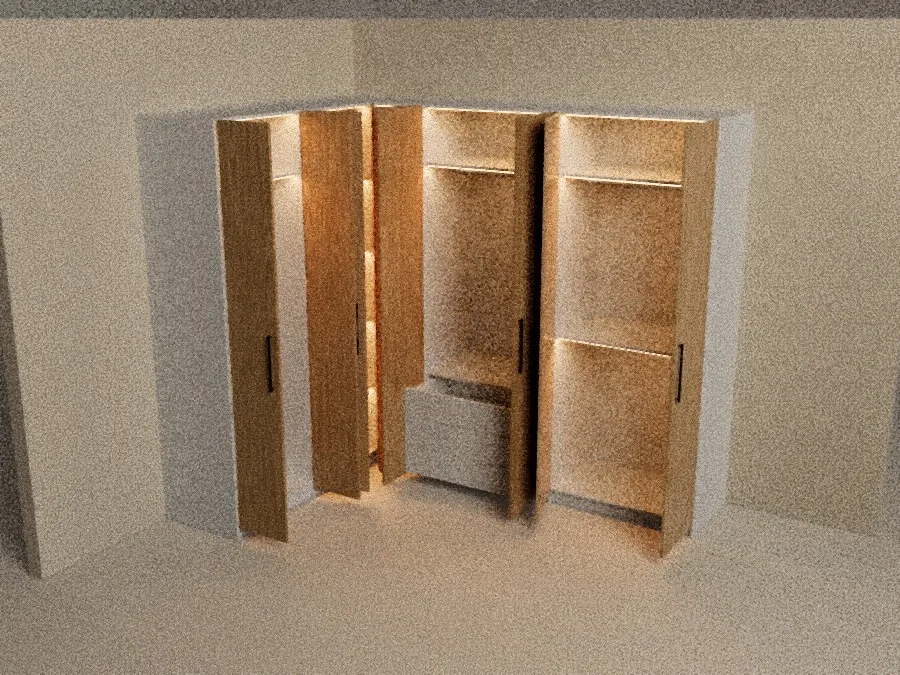
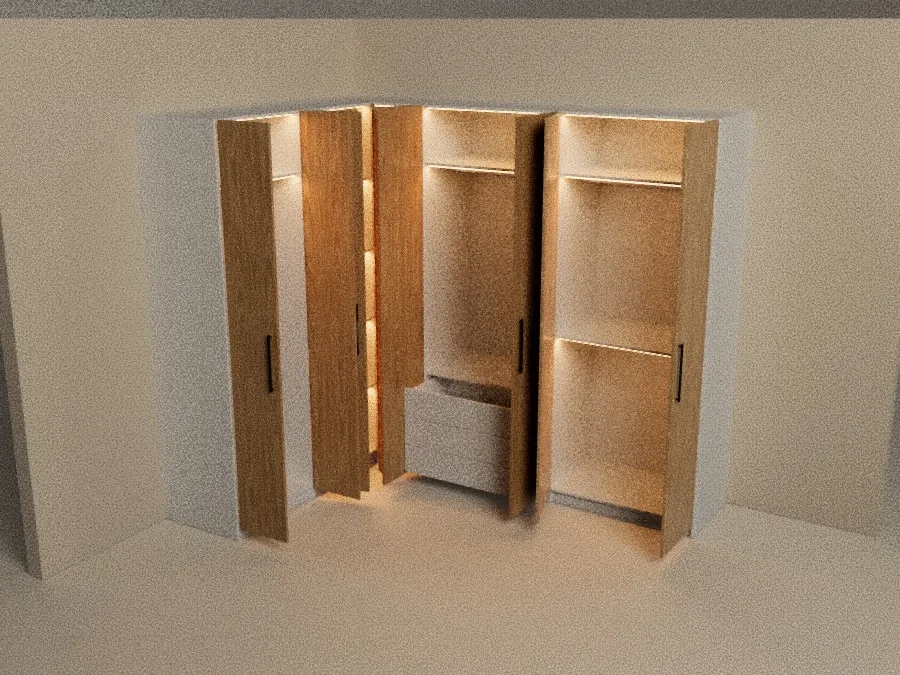
Cama con acolchado que cae por los costados y los pies, y telas sobre una malla pareja
El acolchado dobla sobre el canto del colchón conservando su espesor y
cuelga con pliegues; colchón, acolchado y almohadas llevan lino arrugado.
Las piezas que se deforman (capitoné, arrugas, caída) se arman sobre una
grilla pareja que comparte los bordes entre caras: sin rajaduras y con diez
veces menos triángulos que la subdivisión anterior.

Claude-Session: https://claude.ai/code/session_01WMh8ZnCxr4ewVPfLHSTLEF

Changed region(s): [[0.0, 0.0, 1.0, 1.0]]

diff --git a/src/components/viewer/PartNode.tsx b/src/components/viewer/PartNode.tsx
@@ -5,7 +5,6 @@ import { useEffect, useMemo, useReducer, useRef, useState, type ReactNode } from
 import * as THREE from "three";
 import { RoundedBoxGeometry } from "three/examples/jsm/geometries/RoundedBoxGeometry.js";
 import { mergeGeometries, mergeVertices } from "three/examples/jsm/utils/BufferGeometryUtils.js";
-import { TessellateModifier } from "three/examples/jsm/modifiers/TessellateModifier.js";
 import { GLTFLoader } from "three/examples/jsm/loaders/GLTFLoader.js";
 import { MeshoptDecoder } from "three/examples/jsm/libs/meshopt_decoder.module.js";
 
@@ -245,6 +244,145 @@ function tuftGeometry(g: THREE.BufferGeometry, size: number[], tuft: NonNullable
   g.computeVertexNormals();
 }
 
+/**
+ * Tela arrugada: la superficie se ondula con unos pliegues suaves, largos en
+ * una dirección y cortos en la otra, como un acolchado o una funda; arriba más
+ * que en los costados. Determinístico: el mismo mueble se ve siempre igual.
+ */
+function wrinkleGeometry(g: THREE.BufferGeometry, amplitude: number, seed: number) {
+  const pos = g.getAttribute("position") as THREE.BufferAttribute;
+  const nor = g.getAttribute("normal") as THREE.BufferAttribute;
+  const a = amplitude * MM;
+  const ph = seed * 6.283;
+  for (let i = 0; i < pos.count; i++) {
+    const x = pos.getX(i);
+    const y = pos.getY(i);
+    const z = pos.getZ(i);
+    const f =
+      0.5 * Math.sin(x * 9.3 + z * 2.7 + ph) +
+      0.3 * Math.sin(x * -3.9 + z * 12.1 + 1.3 + ph * 0.7) +
+      0.2 * Math.sin((x + z) * 21 + y * 7 + 0.4 + ph * 1.3) +
+      0.12 * Math.sin(x * 37 - z * 29 + ph * 2.1);
+    // las arrugas se marcan arriba; en lo que cuelga y en el dobladillo, poco
+    const up = Math.max(0.2, nor.getY(i));
+    const k = a * f * up;
+    pos.setXYZ(i, x + nor.getX(i) * k, y + nor.getY(i) * k, z + nor.getZ(i) * k);
+  }
+  pos.needsUpdate = true;
+  g.computeVertexNormals();
+}
+
+/**
+ * La caída de una tela: lo que sobra del ancho y del largo de lo que cubre
+ * dobla sobre el canto (un radio chico) y cuelga, como un acolchado sobre el
+ * colchón. A los costados y adelante; atrás queda contra las almohadas.
+ */
+function drapeGeometry(g: THREE.BufferGeometry, size: number[], drape: NonNullable<Part["drape"]>) {
+  const pos = g.getAttribute("position") as THREE.BufferAttribute;
+  const hw = (drape.w * MM) / 2;
+  const front = -size[2] / 2 + drape.d * MM;
+  const r = 0.045;
+  const arc = (r * Math.PI) / 2;
+  const drop = drape.drop * MM;
+  // un punto que estaba `e` más allá del canto, a `h` del medio del espesor:
+  // dobla alrededor del canto (el espesor se conserva: afuera queda más lejos)
+  // y después cuelga derecho. Devuelve cuánto sale, cuánto baja y el seno y el
+  // coseno del giro, para correr el espesor.
+  const bend = (e: number) => {
+    if (e <= 0) return { out: e, down: 0, s: 0, c: 1 };
+    if (e <= arc) {
+      const t = e / r;
+      return { out: r * Math.sin(t), down: r * (1 - Math.cos(t)), s: Math.sin(t), c: Math.cos(t) };
+    }
+    return { out: r, down: Math.min(drop, r + (e - arc)), s: 1, c: 0 };
+  };
+  // los pliegues verticales de lo que cuelga: dos ondas que no se repiten igual
+  const folds = (u: number) => 0.6 * Math.sin(u * 27 + 0.7) + 0.4 * Math.sin(u * 61 + 2.1);
+  for (let i = 0; i < pos.count; i++) {
+    const x = pos.getX(i);
+    const z = pos.getZ(i);
+    const h = pos.getY(i);
+    const bx = bend(Math.abs(x) - hw);
+    const bz = bend(z - front);
+    const down = Math.min(drop, bx.down + bz.down);
+    // cuánto cuelga ya (0 arriba, 1 al fondo): ahí los pliegues se marcan
+    const hx = Math.min(1, bx.down / 0.12);
+    const hz = Math.min(1, bz.down / 0.12);
+    const wave = 0.011;
+    const nx = Math.abs(x) > hw ? Math.sign(x) * (hw + bx.out + h * bx.s + wave * hx * folds(z)) : x;
+    const nz = z > front ? front + bz.out + h * bz.s + wave * hz * folds(x + 3.1) : z;
+    pos.setXYZ(i, nx, -down + h * bx.c * bz.c, nz);
+  }
+  pos.needsUpdate = true;
+  g.computeVertexNormals();
+}
+
+/**
+ * Una caja redondeada hecha de una malla pareja, para poder deformarla (el
+ * capitoné, las arrugas, la caída de una tela). Cada cara es una grilla de
+ * lado `cell` como mucho, más puntos de sobra cerca de los cantos para que el
+ * redondeo salga liso; las caras comparten exactamente los vértices de sus
+ * bordes, así que al soldarlas no quedan rajaduras.
+ */
+function gridRoundedBox(size: number[], radius: number, cell: number): THREE.BufferGeometry {
+  const r = Math.min(radius, ...size.map((v) => v / 2 - 1e-5));
+  const stops = (len: number) => {
+    const h = len / 2;
+    const inner = h - r;
+    const out: number[] = [];
+    // cerca de cada punta, puntos que caen parejos en el cuarto de círculo
+    for (let k = 0; k < 4; k++) out.push(-h + r * (1 - Math.tan((Math.PI / 4) * (1 - k / 4))));
+    const n = Math.max(1, Math.ceil((2 * inner) / cell));
+    for (let k = 0; k <= n; k++) out.push(-inner + (2 * inner * k) / n);
+    for (let k = 3; k >= 0; k--) out.push(h - r * (1 - Math.tan((Math.PI / 4) * (1 - k / 4))));
+    const sorted = out.sort((a, b) => a - b);
+    return sorted.filter((v, i) => i === 0 || v - sorted[i - 1] > 1e-6);
+  };
+  const axes = size.map(stops);
+  const half = size.map((v) => v / 2);
+  const positions: number[] = [];
+  const index: number[] = [];
+  // las seis caras: el eje que mira afuera, su signo y los dos ejes de la grilla
+  for (const [w, sign] of [[0, 1], [0, -1], [1, 1], [1, -1], [2, 1], [2, -1]] as const) {
+    const u = (w + 1) % 3;
+    const v = (w + 2) % 3;
+    const base = positions.length / 3;
+    for (const b of axes[v])
+      for (const a of axes[u]) {
+        const p = [0, 0, 0];
+        p[w] = sign * half[w];
+        p[u] = a;
+        p[v] = b;
+        positions.push(...p);
+      }
+    const nu = axes[u].length;
+    for (let j = 0; j < axes[v].length - 1; j++)
+      for (let i = 0; i < nu - 1; i++) {
+        const a = base + j * nu + i;
+        const b = a + 1;
+        const c = a + nu;
+        const d = c + 1;
+        // u × v apunta a +w: con el signo negativo se da vuelta el orden
+        if (sign > 0) index.push(a, b, d, a, d, c);
+        else index.push(a, d, b, a, c, d);
+      }
+  }
+  // el redondeo: cada punto se lleva a la superficie de la caja interior inflada en r
+  for (let i = 0; i < positions.length; i += 3) {
+    const c = [0, 1, 2].map((k) => Math.max(-(half[k] - r), Math.min(half[k] - r, positions[i + k])));
+    const d = [0, 1, 2].map((k) => positions[i + k] - c[k]);
+    const len = Math.hypot(d[0], d[1], d[2]);
+    if (len > 1e-9) for (let k = 0; k < 3; k++) positions[i + k] = c[k] + (d[k] / len) * r;
+  }
+  const g = new THREE.BufferGeometry();
+  g.setAttribute("position", new THREE.Float32BufferAttribute(positions, 3));
+  g.setIndex(index);
+  const welded = mergeVertices(g, 1e-6);
+  g.dispose();
+  welded.computeVertexNormals();
+  return welded;
+}
+
 function isVertical(p: Part) {
   return p.cut ? Math.abs(p.cut.length - p.size[1]) < 1 : true;
 }
@@ -258,6 +396,17 @@ function tinted(spec: string): THREE.MeshStandardMaterial {
     // "rug:": alfombra de lana, con su trama de verdad
     if (spec.startsWith("rug:")) {
       m = dressWith(new THREE.MeshStandardMaterial({ color: spec.slice(4), roughness: 1, envMapIntensity: 0.2 }), "tela-lana", { normalScale: 1.4, roughness: 1 });
+      tints.set(spec, m);
+      return m;
+    }
+    // "linen:": ropa de cama y fundas, con la trama del lino y el brillo rasante de la tela
+    if (spec.startsWith("linen:")) {
+      const color = spec.slice(6);
+      m = dressWith(
+        new THREE.MeshPhysicalMaterial({ color, roughness: 0.95, envMapIntensity: 0.35, sheen: 0.5, sheenRoughness: 0.6, sheenColor: new THREE.Color(color).lerp(new THREE.Color("#ffffff"), 0.3) }),
+        "tela-lino",
+        { normalScale: 1.2, roughness: 1, tint: new THREE.Color(color).multiplyScalar(1 / Math.pow(205 / 255, 2.2)) },
+      );
       tints.set(spec, m);
       return m;
     }
@@ -275,7 +424,7 @@ function tinted(spec: string): THREE.MeshStandardMaterial {
 }
 
 function pickMaterial(kit: MaterialKit, p: Part): THREE.Material | null {
-  if (/^(tint|gloss|rug|veneer):/.test(p.material)) return tinted(p.material);
+  if (/^(tint|gloss|rug|veneer|linen):/.test(p.material)) return tinted(p.material);
   const along = isVertical(p) ? "v" : "u";
   switch (p.material) {
     case "none":
@@ -351,22 +500,23 @@ export function PartNode({ part, exiting, kit, delay, onSelect, onLeaf }: NodePr
     if (part.geometry !== "cushion" && !edged) return null;
     const [sx, sy, sz] = part.size.map((v) => Math.max(v, 1) * MM);
     const radius = part.geometry === "cushion" ? Math.min(part.radius ?? 60, Math.min(...part.size) / 2 - 0.5) : Math.min(2.2, Math.min(...part.size) * 0.22);
-    let g: THREE.BufferGeometry = new RoundedBoxGeometry(sx, sy, sz, part.geometry === "cushion" ? 7 : 2, radius * MM);
-    if (part.tuft) {
-      // las caras planas de la caja redondeada son un solo rectángulo: se parten en
-      // triángulos de 3 cm para poder hundirlas, y se vuelven a soldar para que el sombreado sea suave
-      const fine = new TessellateModifier(0.03, 10).modify(g.toNonIndexed());
-      g.dispose();
-      g = mergeVertices(fine, 1e-5);
-      fine.dispose();
-      tuftGeometry(g, [sx, sy, sz], part.tuft);
+    // lo que se deforma necesita una malla pareja; lo demás, la caja redondeada liviana
+    const cell = part.tuft || part.drape ? 0.025 : 0.04;
+    const g: THREE.BufferGeometry =
+      part.tuft || part.wrinkle ? gridRoundedBox([sx, sy, sz], radius * MM, cell) : new RoundedBoxGeometry(sx, sy, sz, part.geometry === "cushion" ? 7 : 2, radius * MM);
+    if (part.tuft) tuftGeometry(g, [sx, sy, sz], part.tuft);
+    if (part.wrinkle) {
+      if (part.drape) drapeGeometry(g, [sx, sy, sz], part.drape);
+      let h = 0;
+      for (const ch of part.id) h = (h * 31 + ch.charCodeAt(0)) % 997;
+      wrinkleGeometry(g, part.wrinkle, h / 997);
     }
     // los frentes (puertas, cajones) comparten la veta con sus vecinos
     const front = part.front || part.kind === "door" || part.kind === "drawer-front";
     meterUvs(g, [sx, sy, sz], part.id, front ? part.position.map((v, i) => (v + part.size[i] / 2) * MM) : undefined);
     return g;
     // eslint-disable-next-line react-hooks/exhaustive-deps
-  }, [part.geometry, edged, part.size[0], part.size[1], part.size[2], part.radius, part.arc && JSON.stringify(part.arc), part.tuft && JSON.stringify(part.tuft), (part.front || part.kind === "door" || part.kind === "drawer-front") && part.position.join(",")]);
+  }, [part.geometry, edged, part.size[0], part.size[1], part.size[2], part.radius, part.arc && JSON.stringify(part.arc), part.tuft && JSON.stringify(part.tuft), part.wrinkle, part.drape && JSON.stringify(part.drape), (part.front || part.kind === "door" || part.kind === "drawer-front") && part.position.join(",")]);
   useEffect(() => () => cushion?.dispose(), [cushion]);
 
   const geometry = useMemo(() => {

diff --git a/src/lib/furniture.ts b/src/lib/furniture.ts
@@ -884,14 +884,22 @@ const BUILDERS: Record<string, Builder> = {
 
     // lo que la viste: colchón, acolchado y almohadas; una mesa de luz a cada lado
     const my = h - 50;
-    const c1 = (id: string, label: string, color: string, pos: Vec3, size: Vec3, radius: number) => {
-      piece(parts, id, label, "shelf", `tint:${color}`, pos, size, { ...deco, geometry: "cushion" }).radius = radius;
+    // tela de lino de verdad, con arrugas: un acolchado nunca está liso
+    const c1 = (id: string, label: string, color: string, pos: Vec3, size: Vec3, radius: number, wrinkle = 0) => {
+      const p = piece(parts, id, label, "shelf", `linen:${color}`, pos, size, { ...deco, geometry: "cushion" });
+      p.radius = radius;
+      if (wrinkle) p.wrinkle = wrinkle;
     };
-    c1("deco:mattress", "Colchón", "#ece6dc", [t + 5, my, z0 + 10], [mw - 10, 250, ml - 20], 80);
-    c1("deco:duvet", "Acolchado", "#cfc4b3", [t - 10, my + 215, z0 + ml * 0.34], [mw + 20, 70, ml * 0.66], 30);
+    c1("deco:mattress", "Colchón", "#ece6dc", [t + 5, my, z0 + 10], [mw - 10, 250, ml - 20], 80, 3);
+    // el acolchado cubre de las almohadas a los pies y cae por los costados y adelante
+    const dl = ml * 0.68;
+    const hang = 200;
+    c1("deco:duvet", "Acolchado", "#cfc4b3", [t + 5 - hang, my + 228, z0 + ml - dl], [mw - 10 + 2 * hang, 52, dl + hang], 22, 9);
+    const duvet = parts[parts.length - 1];
+    duvet.drape = { w: mw + 6, d: dl + 8, drop: 200 };
     const pillows = mw > 1200 ? 2 : 1;
     const pw = Math.min(700, mw / pillows - 60);
-    for (let k = 0; k < pillows; k++) c1(`deco:pillow${k}`, "Almohada", "#f6f2ea", [t + (mw / pillows) * k + (mw / pillows - pw) / 2, my + 240, z0 + 60], [pw, 150, 420], 70);
+    for (let k = 0; k < pillows; k++) c1(`deco:pillow${k}`, "Almohada", "#f6f2ea", [t + (mw / pillows) * k + (mw / pillows - pw) / 2, my + 240, z0 + 60], [pw, 150, 420], 70, 6);
     return { parts, drawers, doors, wall: v.head !== "no" };
   },
 

diff --git a/src/lib/assembly.ts b/src/lib/assembly.ts
@@ -130,6 +130,13 @@ export type Part = {
   model?: string;
   /** capitoné: la cara de arriba (o la de adelante) se hunde en una grilla de botones */
   tuft?: { face: "top" | "front"; nx: number; ny: number; depth: number };
+  /** arrugado de tela (mm de onda): sábanas, acolchados, almohadas */
+  wrinkle?: number;
+  /**
+   * Caída de una tela sobre lo que cubre (un acolchado sobre el colchón): lo que
+   * sobra del ancho `w` y del largo `d` (mm, desde atrás) dobla y cuelga, hasta `drop`.
+   */
+  drape?: { w: number; d: number; drop: number };
   /** ambientación (alfombra, tele, libros): se dibuja, pero no es parte del mueble ni del precio */
   decor?: boolean;
   /** null para lo que no sale de placa */
